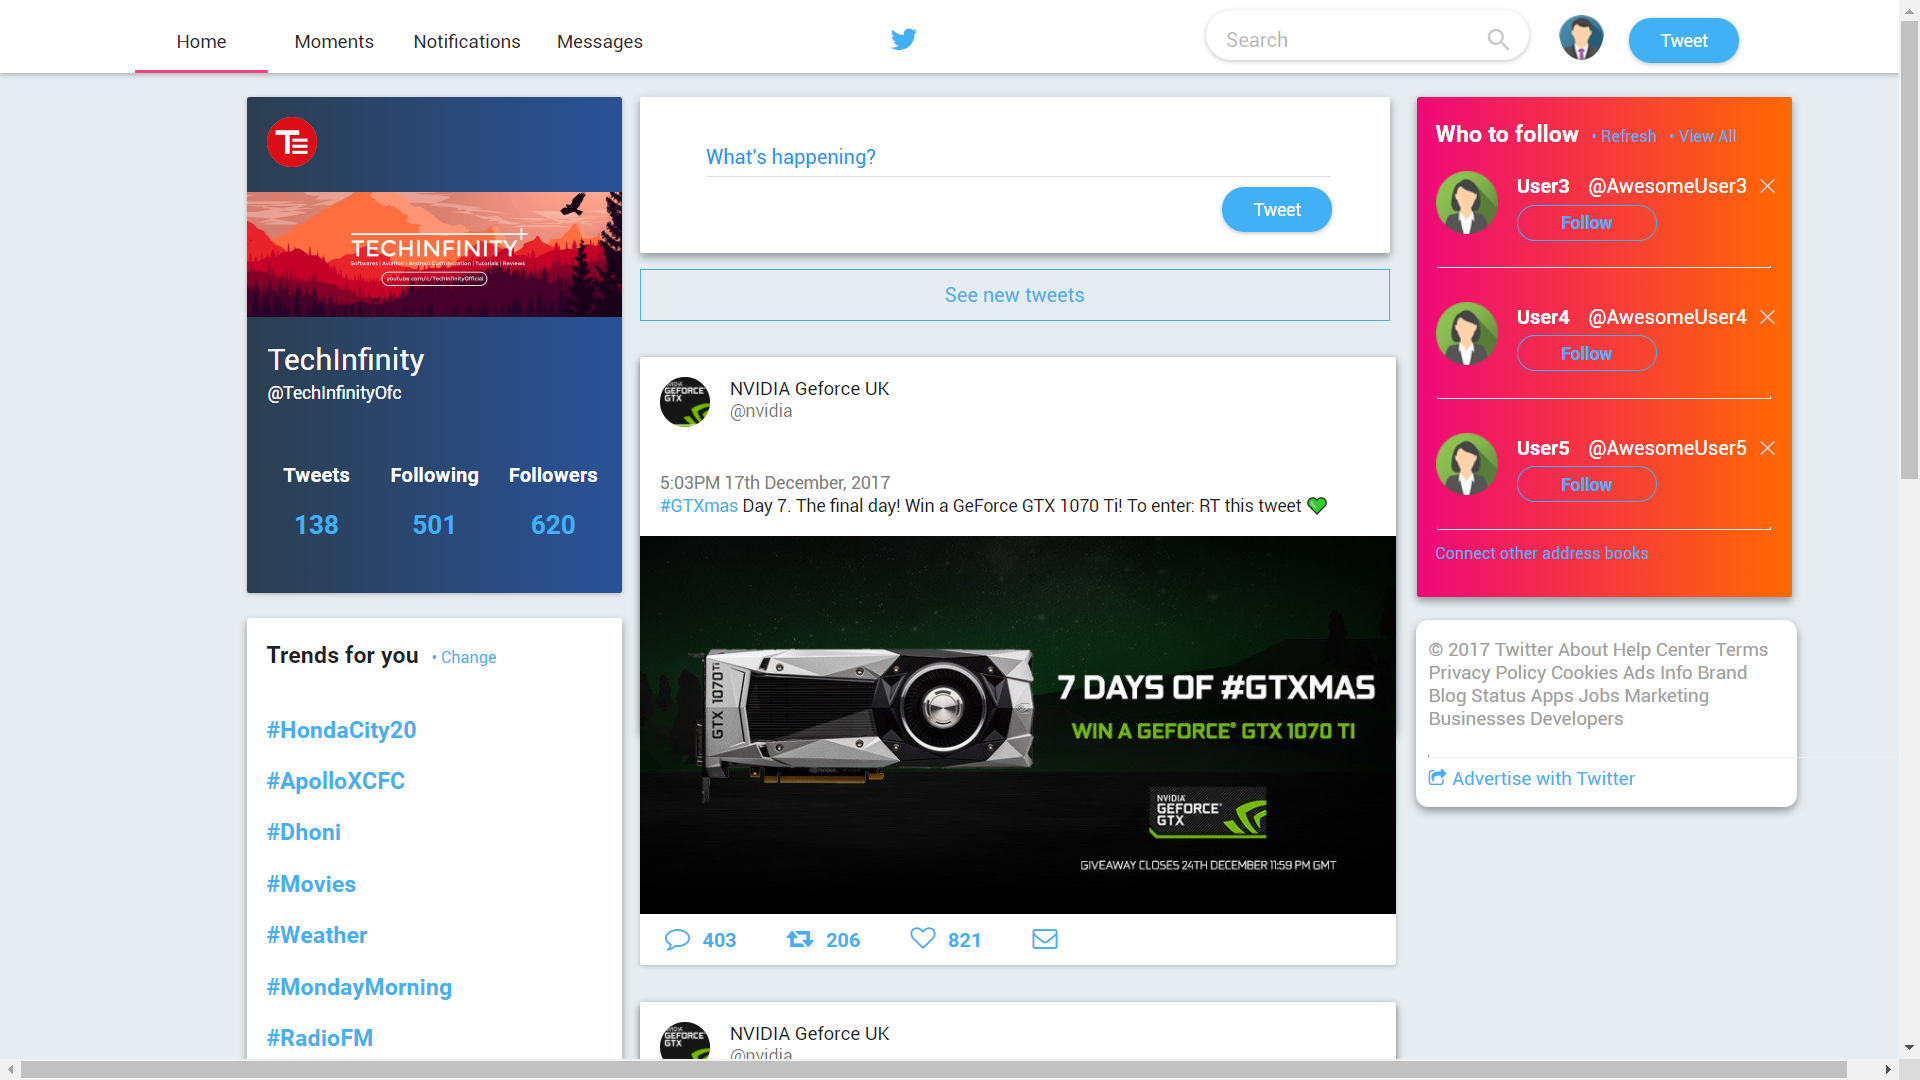
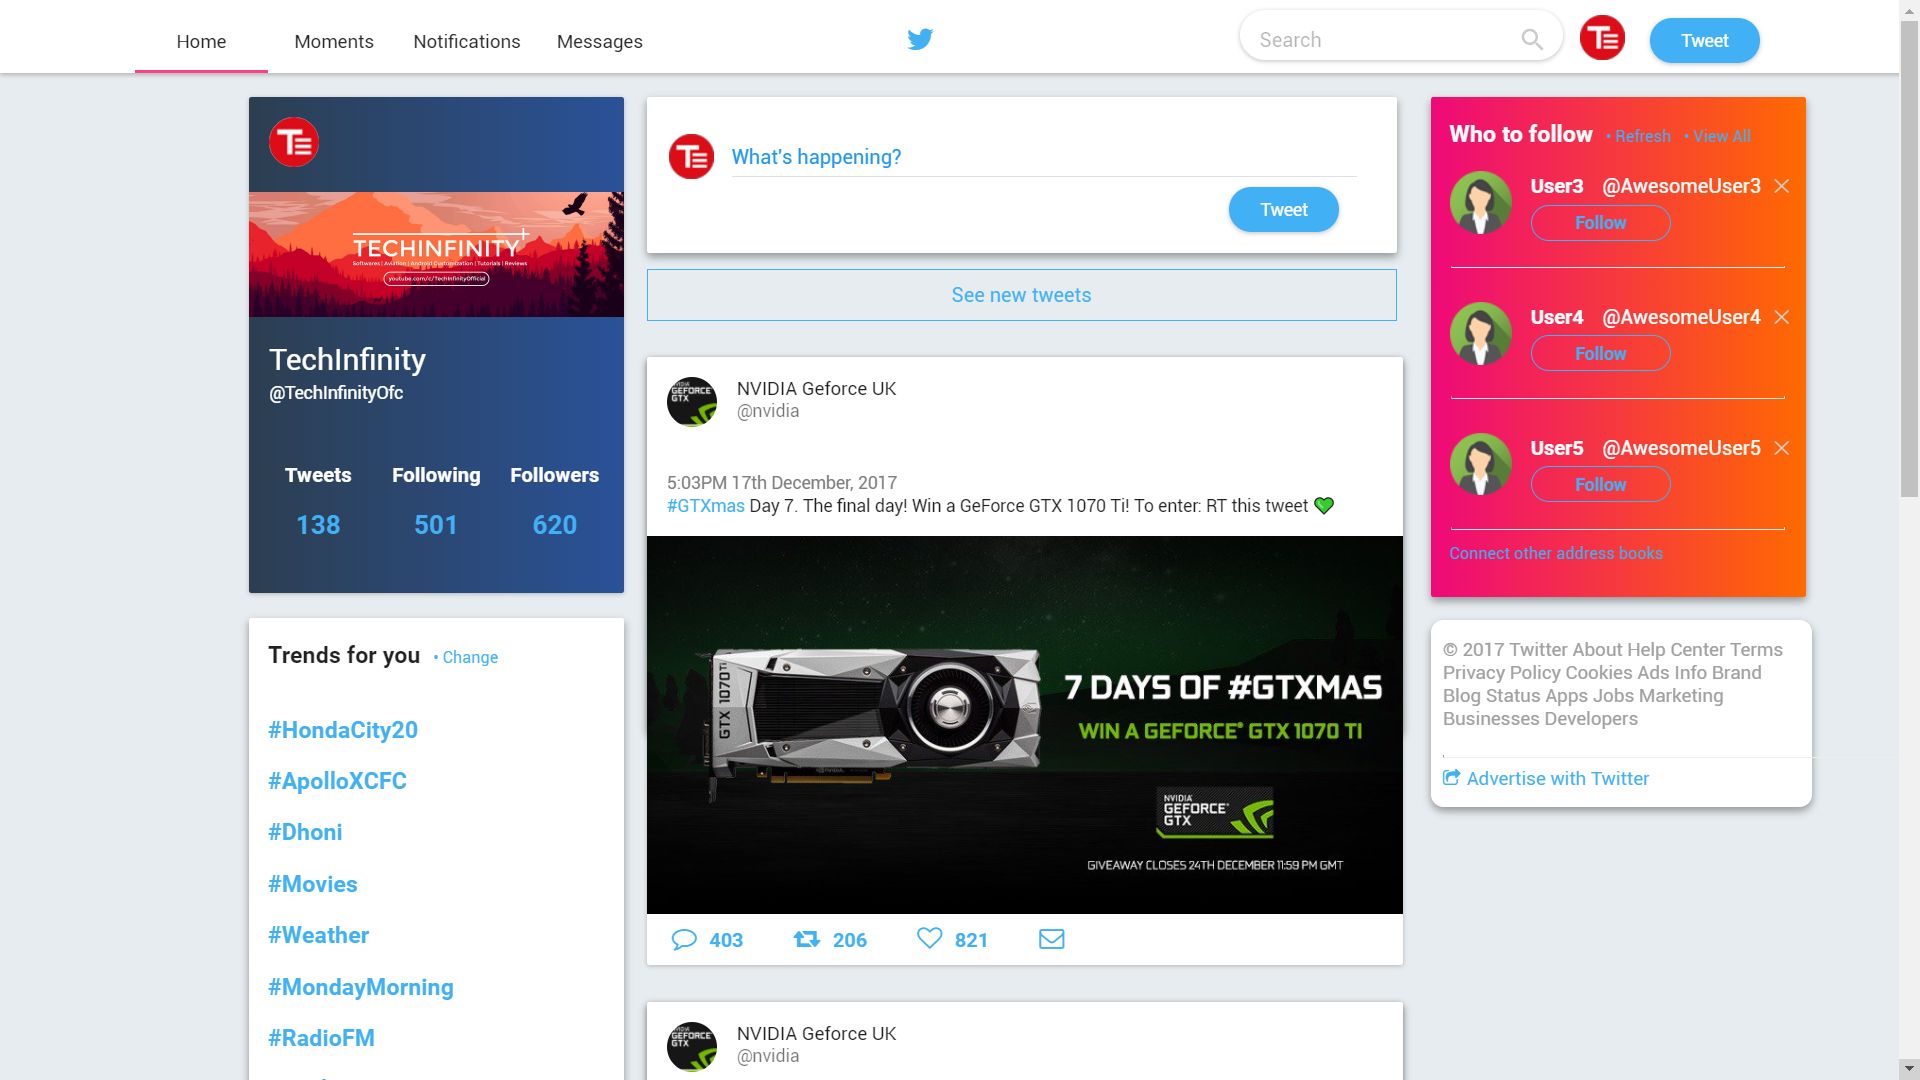
Minor tweaks.

diff --git a/src/tweetBox/tweetBox.js b/src/tweetBox/tweetBox.js
@@ -3,6 +3,7 @@ import TextField from 'material-ui/TextField';
 import RaisedButton from 'material-ui/RaisedButton';
 import { orange500, blue500 } from 'material-ui/styles/colors';
 import Paper from 'material-ui/Paper';
+import pic from '../images/logo.png'
 
 const styles = {
     errorStyle: {
@@ -41,7 +42,7 @@ export default class TweetBox extends Component {
 
             <div className="search">
                 <Paper style={style} zDepth={2} >
-                    <TextField style={{width:500}}
+                <img  className="tweet-image" styles={{marginLeft:-100}} src={pic} /> <TextField style={{width:500}}
                         hintText=""
                         hintStyle={styles.floatingLabelFocusStyle}
                         floatingLabelText="What's happening?"

diff --git a/src/profileCard/profileCard.js b/src/profileCard/profileCard.js
@@ -1,5 +1,6 @@
 import React, { Component } from 'react';
 import { Card, CardActions, CardHeader, CardMedia, CardTitle, CardText } from 'material-ui/Card';
+import pic from '../images/logo.png'
 
 
 
@@ -9,7 +10,7 @@ export default class ProfileCard extends Component {
         <Card className='profile' style={{width:300,marginLeft:-20}}>
         <CardHeader
 
-          avatar='https://pbs.twimg.com/profile_images/816495374768553984/NgtD89Xu_400x400.jpg'
+          avatar={pic}
         />
         <CardMedia
         >

diff --git a/src/App.css b/src/App.css
@@ -61,6 +61,8 @@ body{
   padding:0;
   margin:0;
   font-family: 'Roboto', sans-serif;
+  overflow-x: hidden;
+  width:100vw;
   
 }
 
@@ -151,9 +153,19 @@ border-radius:6px;
 }
 .nav-image
 {
-border-radius: 50%;
+
 padding:10px 20px 0 20px ;
 margin-bottom: -10px;
+margin-left:-10px;
+
+}
+.tweet-image
+{
+
+padding:10px 20px 0 20px ;
+margin-bottom: -10px;
+margin-left:-40px;
+margin-right:-10px;
 
 }
 .right-nav

diff --git a/src/navBar/navBar.js b/src/navBar/navBar.js
@@ -8,7 +8,7 @@ import FlatButton from 'material-ui/FlatButton';
 import '../App.css';
 import RaisedButton from 'material-ui/RaisedButton';
 import FontIcon from 'material-ui/FontIcon';
-import pic from '../pic.png'
+import pic from '../images/logo.png'
 
 import SearchBar from 'material-ui-search-bar'
 

diff --git a/src/follow/follow.js b/src/follow/follow.js
@@ -1,6 +1,6 @@
 import React, { Component } from 'react';
 import Paper from 'material-ui/Paper';
-import pic from '../pic2.png'
+import pic from '../images/user.png'
 
 
 const style = {

diff --git a/src/trendsCard/trendsCard.js b/src/trendsCard/trendsCard.js
@@ -1,6 +1,6 @@
 import React, { Component } from 'react';
 import Paper from 'material-ui/Paper';
-import pic from '../pic2.png'
+import pic from '../images/user.png'
 
 
 const style = {
